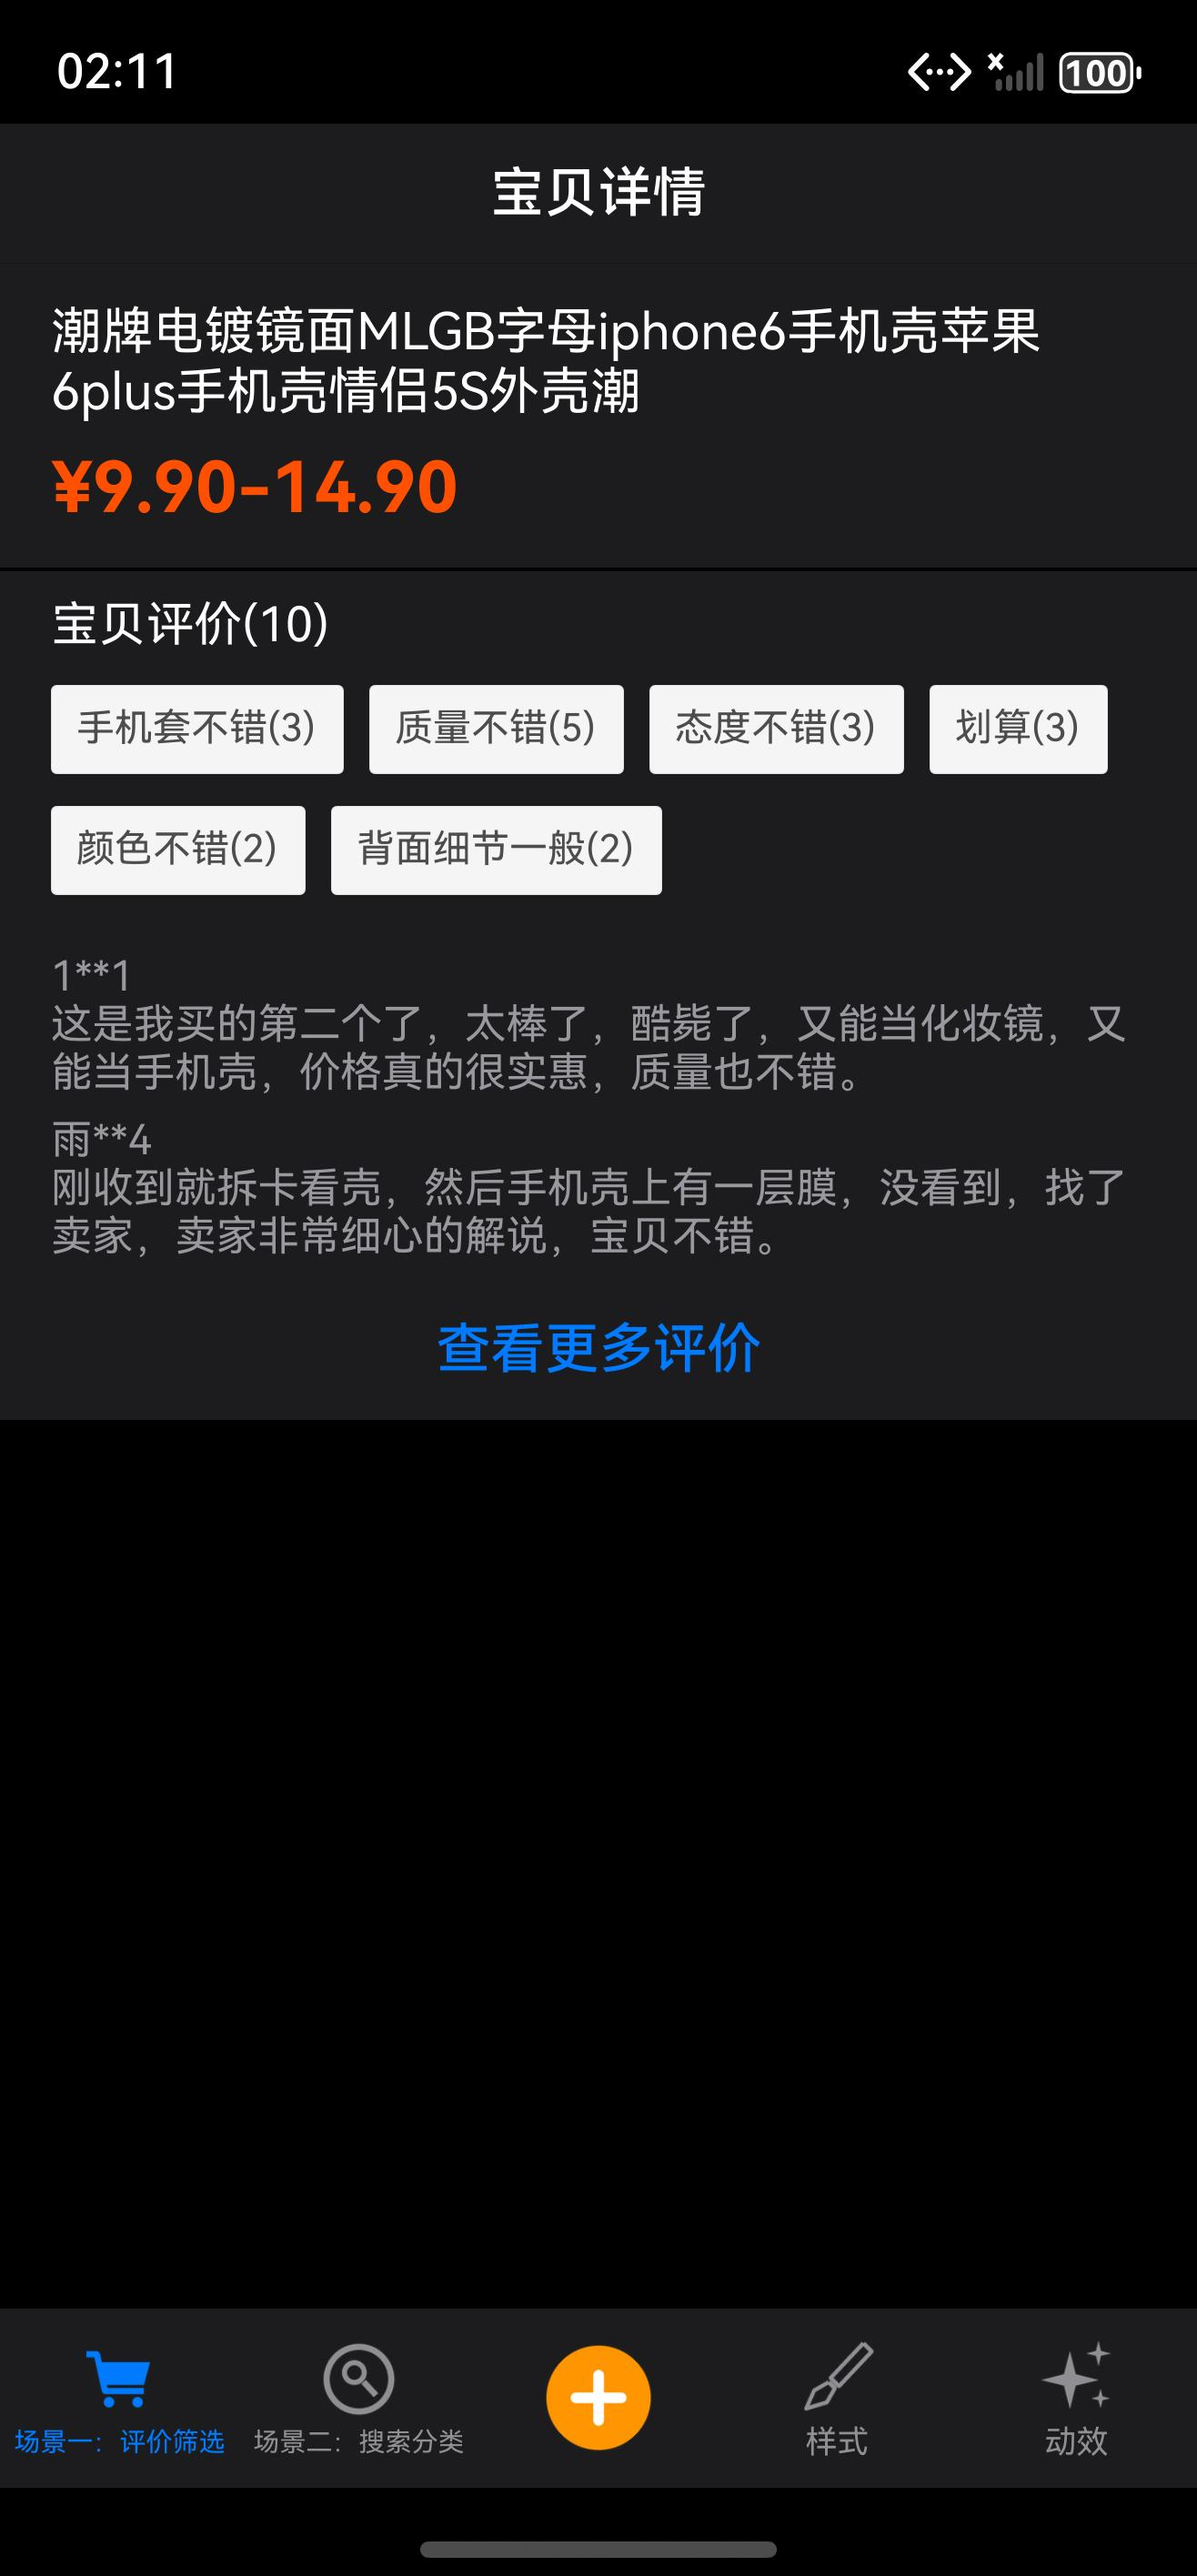
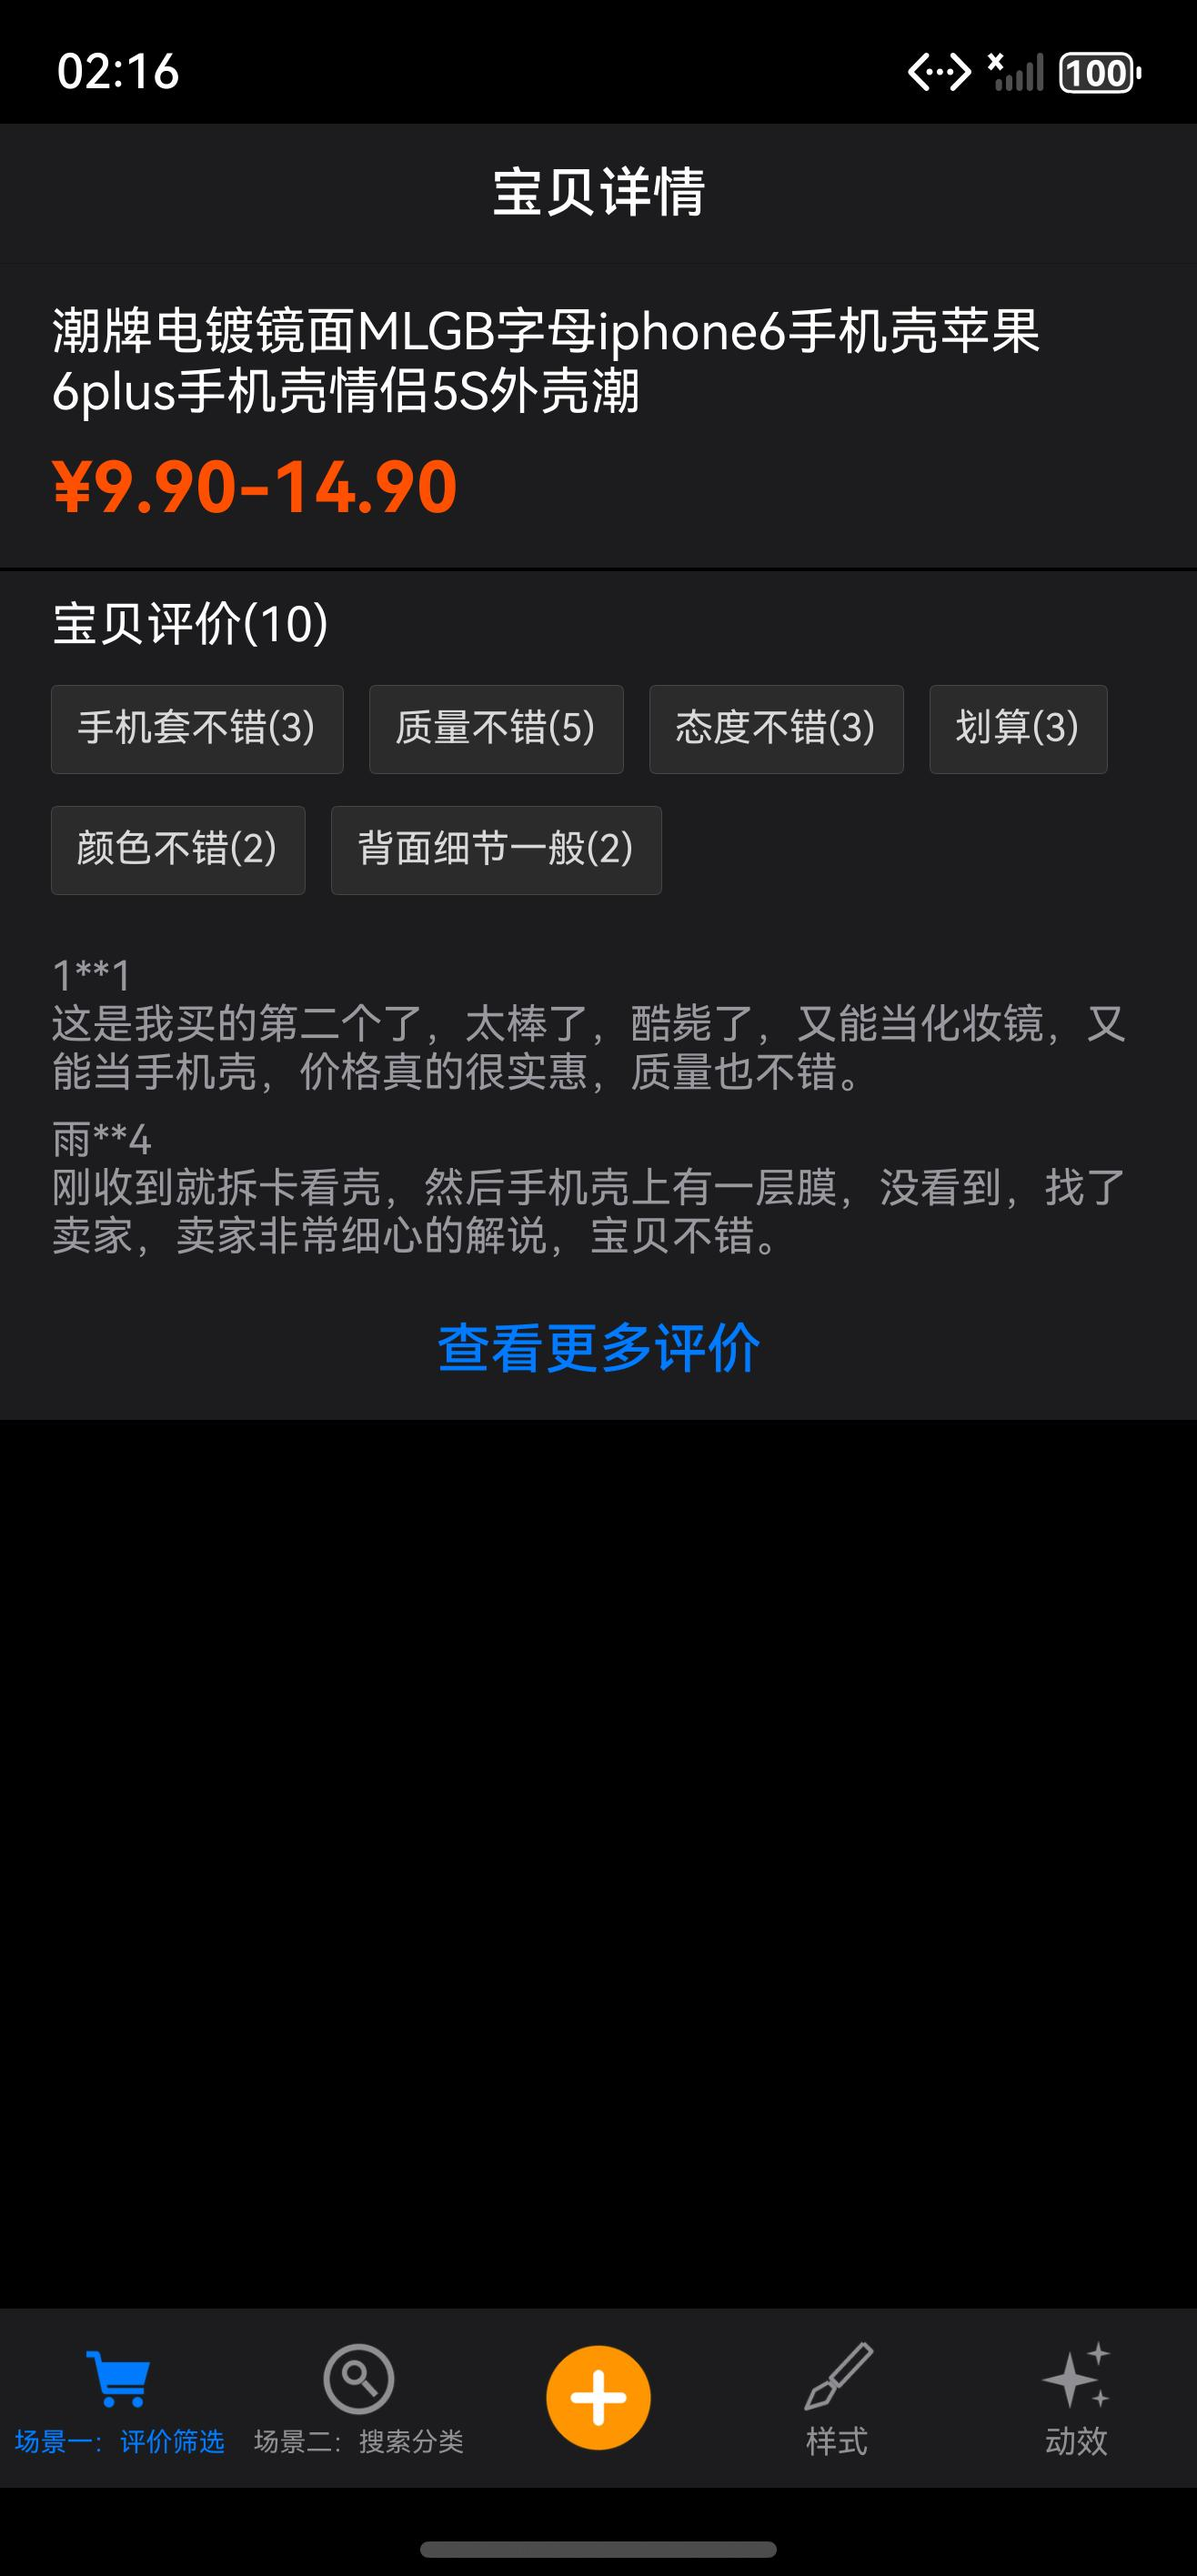
docs(harmony): 📝 retest a65c88c: E7 passes
The root page's review chips are dark gray with light titles in dark
mode; light mode is unchanged.

By @ChenYilong <luohanchenyilong@163.com>

Claude-Session: https://claude.ai/code/session_017y7XP1mQbtZ3qSM2mvdshG

Changed region(s): [[0.0312, 0.2486, 0.9347, 0.3729], [0.1246, 0.0, 0.1558, 0.0311]]

diff --git a/docs/harmony-screenshot-issues.md b/docs/harmony-screenshot-issues.md
@@ -184,7 +184,7 @@ was not run here.
 | Z4 | Animation screen in dark mode: the nav bar ("动效图标") stays light | DONE (emulator, `70ad109`, `assets/harmonyos-9c8048a-animation-dark-light.jpeg`, `assets/harmonyos-8529951-animation-dark.jpeg`):: fixed: `CYLDemoBar(followsColorMode: true)` uses color resources with dark variants on this page |
 | Z5 | Once, first dark launch after install: blank tags and an app freeze (THREAD_BLOCK_6S in PipelineContext::AddWindowStateChangedCallback); not reproduced in three runs | DONE (emulator, `30f18b4`, `assets/harmonyos-verify-z5-e2.jpeg`): fresh install, six openings (light, dark, English, twice each) with a scroll, no freeze or fault log |
 | Z6 | Animation screen in dark mode: the caption "动效引擎：… 已链接" is dim gray on black | DONE (emulator, `70ad109`, `assets/harmonyos-9c8048a-animation-dark-light.jpeg`, `assets/harmonyos-8529951-animation-dark.jpeg`):: fixed: a color resource, #6E6E73 light / #AEAEB2 dark |
-| E7 | Root page in dark mode: the review tag chips stay light gray | TODO need 模拟器截图验证: fixed: in dark mode the product page's review chips are dark gray with light titles (the color mode is read when the page appears; the selected chip stays orange) |
+| E7 | Root page in dark mode: the review tag chips stay light gray | DONE (emulator, `2b5a9bc`, `assets/harmonyos-verify-e7.jpeg`): dark gray chips with light titles in dark mode; light mode unchanged |
 
 ## Score history
 
